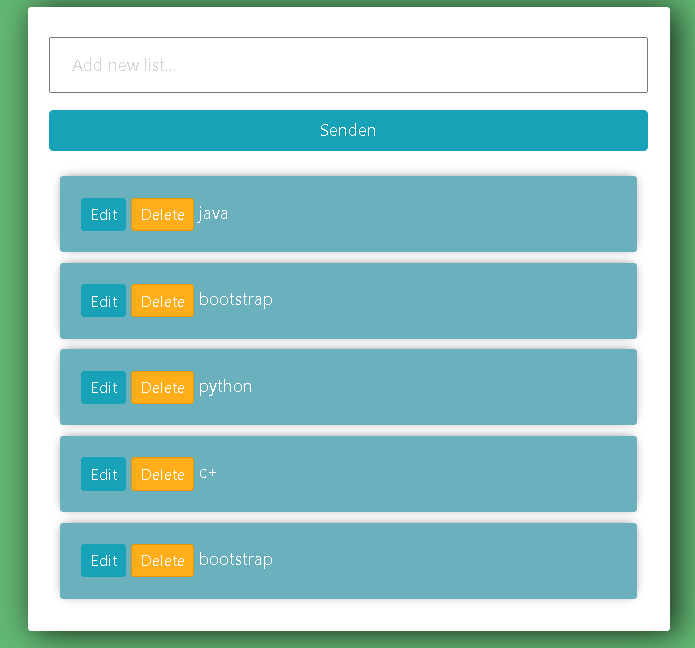
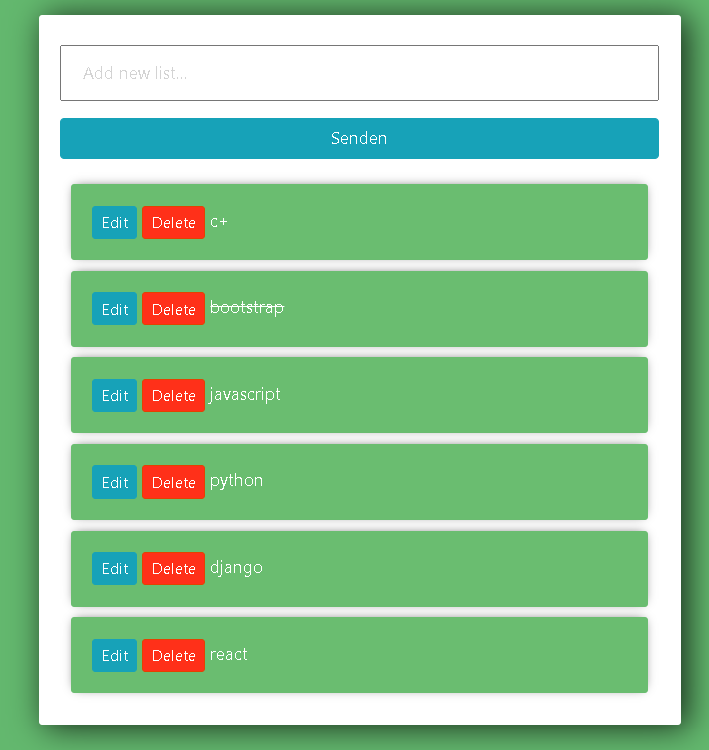
edit readme

diff --git a/todos/templates/tasks/list.html b/todos/templates/tasks/list.html
@@ -3,7 +3,7 @@
 <style>
 
 	body{
-		background-color: #36ad4e;
+		background-color: #63b86e;
 	}
 
 	input{
@@ -31,7 +31,7 @@
 	}
 
 	.item-row{
-		background-color: #6ab1bd;
+		background-color: #6abd70;
 		margin: 10px;
 		padding: 20px;
 		border-radius: 3px;
@@ -41,19 +41,9 @@
 	}
 
 	.btn-danger{
-		background-color: #ff1919;
-		border-color: #e50000;
+		background-color: #ff3019;
+		border-color: #e54100;
 	}
-
-  @media only screen and (max-width: 600px){
-
-.center-column {
-
-	width: max-content;
-}
-} 
-
-
 
 </style>
 
@@ -79,3 +69,5 @@
  </div>
 {% endfor %}
  </div>
+
+ 

diff --git a/todos/templates/tasks/main.html b/todos/templates/tasks/main.html
@@ -1,3 +1,4 @@
+
 <!DOCTYPE html>
 <html lang="en">
 <head>

diff --git a/README.md b/README.md
@@ -30,7 +30,8 @@
 # Credits
 ## Content
 
-* Code Institutes walkthrough projects "Hello django"
+* Code Institute walkthrough projects "Hello django"
+
 
 # Testing
 
